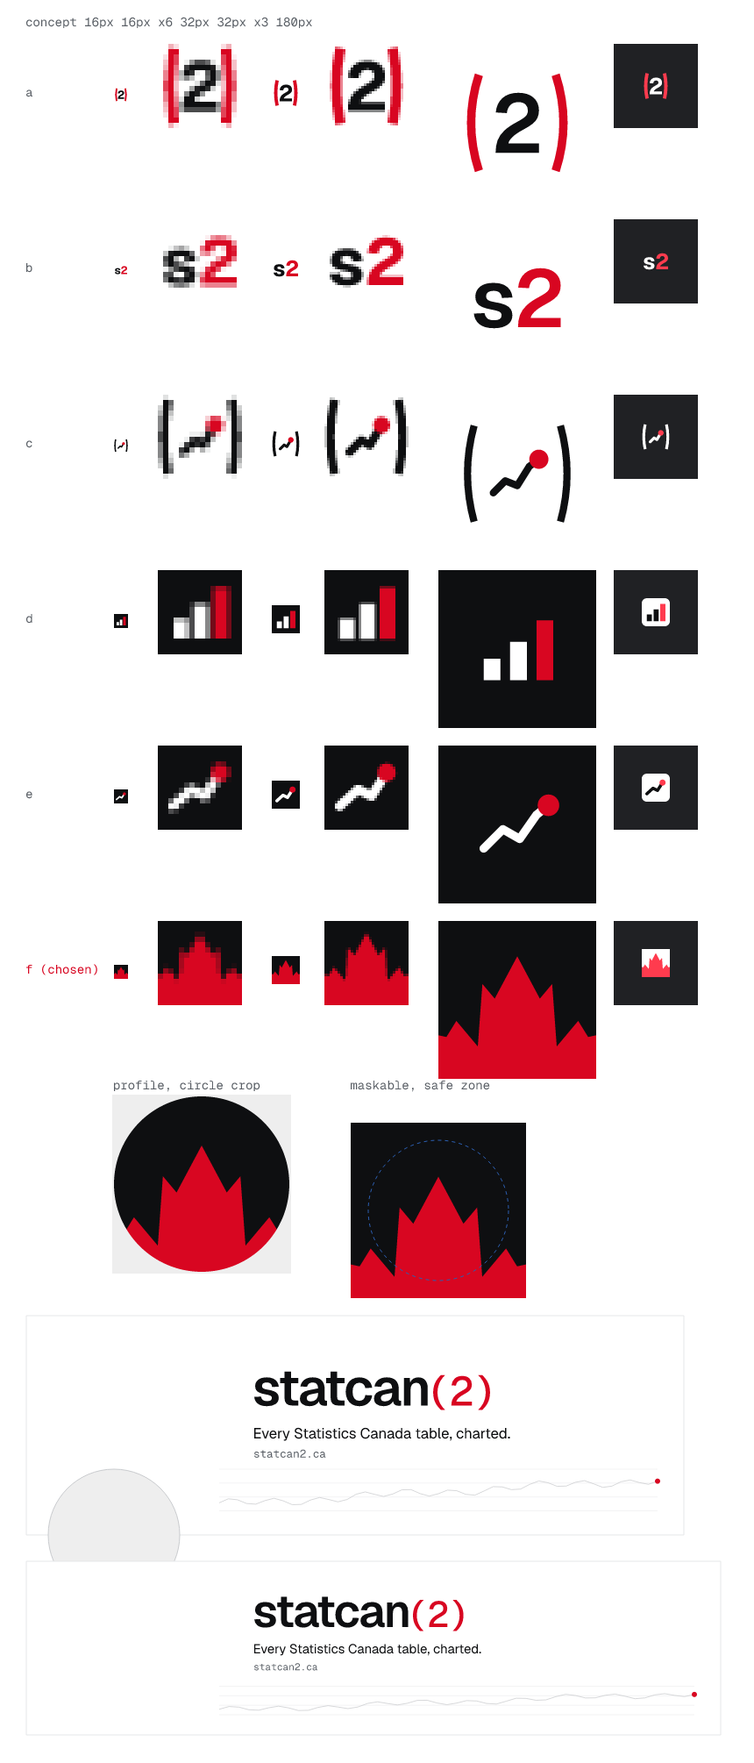
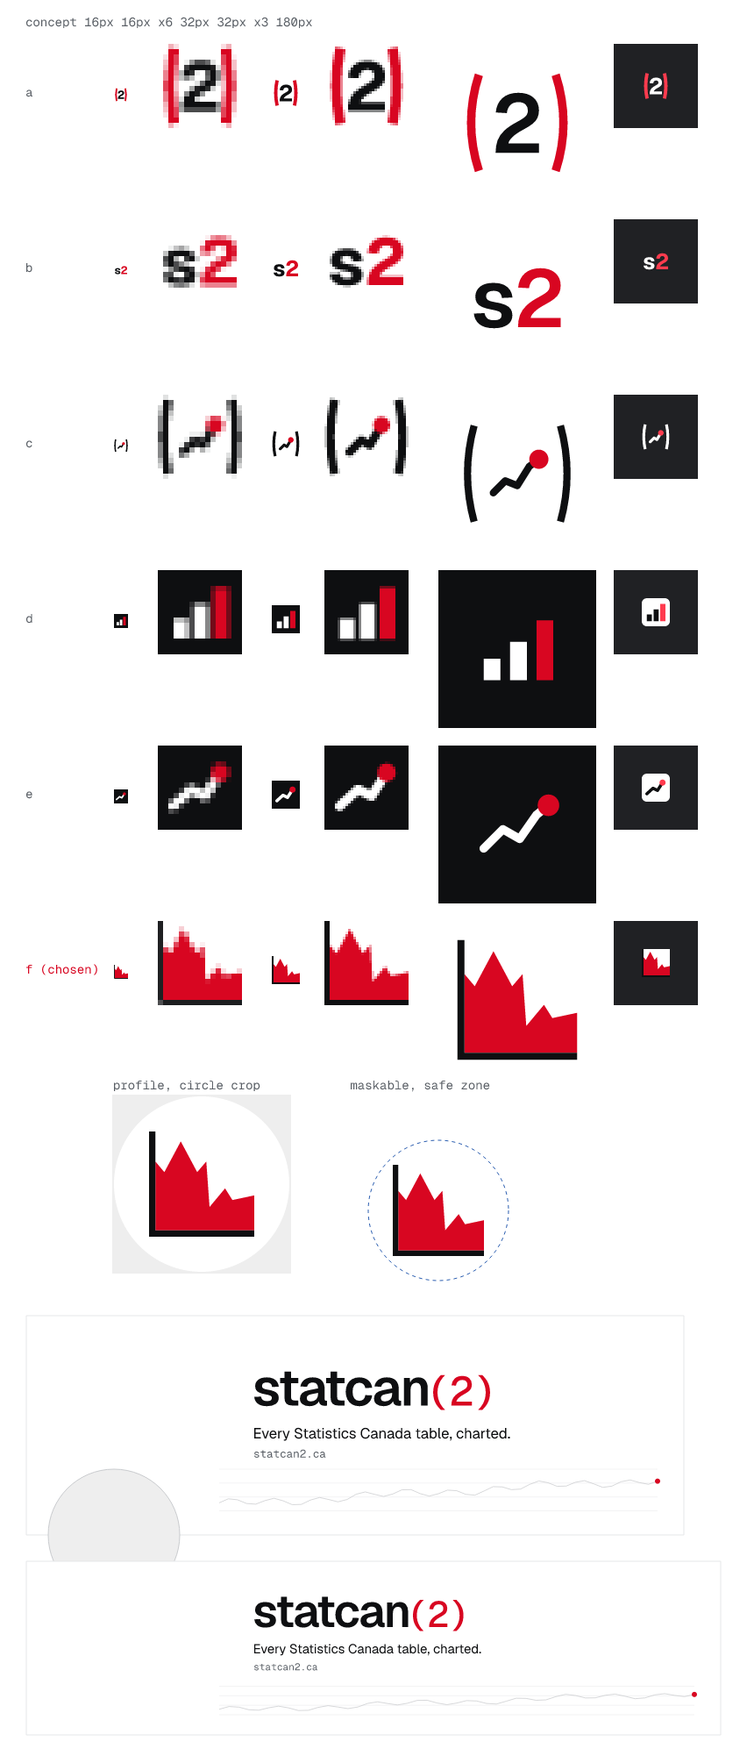
Leaf chart mark with axes; domain on the site card
The mark is now a red maple leaf drawn as an area chart inside a thin
black axis, red on white, with the centre lobe against the y axis. The
favicon gets a 6/100 corner radius. The mark's x axis sits on the
wordmark's baseline in the top bar and the site card, and the site card
shows statcan2.ca at bottom right.

diff --git a/api/src/pages.ts b/api/src/pages.ts
@@ -17,8 +17,9 @@ const HIGHCHARTS = { src: "https://cdn.jsdelivr.net/npm/highcharts@13.1.1/highch
 const PUBLIC_DIR = fileURLToPath(new URL("../public", import.meta.url));
 
 
-/** The favicon's mark (brand/build.mjs concept f, the maple leaf as an area chart) on a 100×100 viewBox. */
-export const BRAND_MARK = `<rect width="100" height="100" fill="#0E0F11"/><path d="M0 100L0 64L5.1 65.1L11.4 54.9L25 71.1L27.9 31.5L35.7 40.8L50 14L64.3 40.8L72.1 31.5L75 71.1L88.6 54.9L94.9 65.1L100 64L100 100Z" fill="#D80621"/>`;
+/** The favicon's mark (brand/build.mjs concept f, the maple leaf as an area chart in an ink axis) on a 100×100 viewBox.
+ * Red on the page's white, so the white tile is not drawn. The x axis sits on the wordmark's baseline. */
+export const BRAND_MARK = `<path fill="#D80621" transform="translate(6 0) scale(0.94)" d="M0 100L0 30.3L9.1 41.1L25.7 10L42.3 41.1L51.5 30.3L54.8 76.3L70.5 57.5L77.9 69.3L100 64.6L100 100Z"/><path fill="none" stroke="#0E0F11" stroke-width="6" d="M3 0V97H100"/>`;
 
 function logo() {
   // The mark, then the wordmark.
@@ -41,7 +42,7 @@ const CSS = `
 @import url('https://fonts.googleapis.com/css2?family=Geist:wght@400;500;600;700&family=Geist+Mono:wght@400;500;600&display=swap');
 :root{color-scheme:light;--ink:#0e0f11;--muted:#5a5f66;--quiet:#9aa0a6;--line:#e6e7e9;--line-strong:#c9cbce;--hot:#d80621;--ok:#0a7f42;--bad:#b42318;--paper:#fff;--mono:'Geist Mono',ui-monospace,SFMono-Regular,Menlo,monospace;--sans:Geist,system-ui,-apple-system,BlinkMacSystemFont,'Segoe UI',sans-serif}
 *{box-sizing:border-box}body{margin:0;background:var(--paper);color:var(--ink);font:14px/1.45 var(--sans)}a{color:inherit;text-decoration:none}a:hover{text-decoration:underline}button,input,select{font:inherit;color:inherit}button{cursor:pointer}.mono,kbd,code,.num{font-family:var(--mono);font-variant-numeric:tabular-nums}.muted{color:var(--muted)}.quiet{color:var(--quiet)}
-.topbar{height:56px;display:flex;align-items:center;gap:24px;padding:0 24px 0 48px;border-bottom:1px solid transparent;background:#fff}.brand{display:flex;align-items:center;gap:8px;font-weight:600;font-size:19px;line-height:22px;letter-spacing:-.03em;white-space:nowrap}.brand-mark{width:20px;height:20px;flex:none}.brand-word{display:flex;align-items:baseline}.brand-version{color:var(--hot);font:500 15px/22px var(--mono);letter-spacing:-.05em;margin-left:2px}.topbar nav{margin-left:auto;display:flex;gap:28px}.topbar nav a{color:var(--muted);font-weight:500}.topbar nav a.active{color:var(--ink);font-weight:600}.search-count{color:var(--muted);font:12px/16px var(--mono);white-space:nowrap}.search-count:empty{display:none}.prompt{color:var(--hot);font:500 14px/18px var(--mono)}kbd{border:1px solid var(--line);font:11px/14px var(--mono);padding:2px 6px;color:var(--muted);background:#fff}
+.topbar{height:56px;display:flex;align-items:center;gap:24px;padding:0 24px 0 48px;border-bottom:1px solid transparent;background:#fff}.brand{display:flex;align-items:baseline;gap:8px;font-weight:600;font-size:19px;line-height:22px;letter-spacing:-.03em;white-space:nowrap}.brand-mark{width:20px;height:20px;flex:none}.brand-word{display:flex;align-items:baseline}.brand-version{color:var(--hot);font:500 15px/22px var(--mono);letter-spacing:-.05em;margin-left:2px}.topbar nav{margin-left:auto;display:flex;gap:28px}.topbar nav a{color:var(--muted);font-weight:500}.topbar nav a.active{color:var(--ink);font-weight:600}.search-count{color:var(--muted);font:12px/16px var(--mono);white-space:nowrap}.search-count:empty{display:none}.prompt{color:var(--hot);font:500 14px/18px var(--mono)}kbd{border:1px solid var(--line);font:11px/14px var(--mono);padding:2px 6px;color:var(--muted);background:#fff}
 main{width:100%;margin:0}.footbar{height:48px;display:flex;align-items:center;justify-content:space-between;padding:0 24px 0 48px;color:var(--quiet);font:12px/16px var(--mono)}
 .section-head{display:flex;align-items:baseline;gap:10px;padding-bottom:12px}.section-head h2{margin:0;font:600 17px/22px var(--sans)}.section-head .count,.count{font:12px/16px var(--mono);color:var(--quiet)}
 .note-row{display:flex;gap:16px;border-top:1px solid var(--line);padding:14px 0}.note-row .id{width:24px;color:var(--quiet);font:11px/16px var(--mono)}.note-row p{margin:0;font-size:13px;line-height:18px}

diff --git a/api/src/og.ts b/api/src/og.ts
@@ -349,17 +349,19 @@ export function chartSvg(view: ViewResult) {
   </svg>`;
 }
 
-// The site card: the top bar's mark and wordmark at 72 px, one line on what the site is, and a sample line
-// drawn like an export's series line. Sizes and spacing scale the top bar's CSS (19 px wordmark) by 72/19.
+// The site card: the top bar's mark and wordmark at 72 px, one line on what the site is, a sample line drawn like an
+// export's series line, and the domain at bottom right, level with the line's lowest point. Sizes and spacing scale
+// the top bar's CSS (19 px wordmark) by 72/19; the mark's x axis sits on the wordmark's baseline, as in the top bar.
 function siteSvg() {
   const size = 72, k = size / 19, baseline = 128;
-  const mark = 20 * k, markY = baseline - .31 * size - mark / 2;
+  const mark = 20 * k, markY = baseline - mark;
   return `<svg xmlns="http://www.w3.org/2000/svg" width="1200" height="630" viewBox="0 0 1200 630">
     <rect width="1200" height="630" fill="${paper}"/>
     <svg x="64" y="${markY.toFixed(1)}" width="${mark.toFixed(1)}" height="${mark.toFixed(1)}" viewBox="0 0 100 100">${BRAND_MARK}</svg>
     <text x="${(64 + mark + 8 * k).toFixed(1)}" y="${baseline}" font-family="${FONTS.sans}" font-size="${size}" font-weight="600" letter-spacing="${(-.03 * size).toFixed(2)}" fill="${ink}">statcan<tspan dx="${(2 * k).toFixed(1)}" font-family="${FONTS.mono}" font-size="${(15 * k).toFixed(1)}" font-weight="500" letter-spacing="${(-.05 * 15 * k).toFixed(2)}" fill="${palette[0]}">(2)</tspan></text>
     <text x="64" y="186" font-family="${FONTS.sans}" font-size="28" fill="${muted}">Explore and chart published Statistics Canada data.</text>
     <path d="${SITE_LINE}" fill="none" stroke="${palette[0]}" stroke-width="5" stroke-linejoin="round" stroke-linecap="round"/>
+    <text x="1136" y="566" text-anchor="end" font-family="${FONTS.mono}" font-size="22" fill="${muted}">${text(PUBLIC_HOST)}</text>
   </svg>`;
 }
 

diff --git a/DESIGN.md b/DESIGN.md
@@ -20,7 +20,7 @@ The site is a data terminal. It is a serious tool, not a marketing site.
    - **Reference pages** (`/api`, `/mcp`) keep the same 56 px top bar and 48 px footer as the app. Their article scrolls between those fixed rows, so the footer has the same top and height at 1440 × 900 on home, chart and reference pages.
    - Rows in lists use a minimum height, not a fixed height, so a long title wraps and the row grows.
 3. **Real data only.** Every number, title, member, note and ID comes from a build on the SSD (`v0` and its Normalized build `n4` for WDS tables, `census-full-1` for Census tables). Never invent a value.
-4. **Not official.** The site must not look like a Government of Canada service. No flag, Canada wordmark or government maple leaf symbol, no FIP bar, no government colours. The one leaf is the logo's: drawn as an area chart, cropped, on an ink tile. Every page with a footer says "Independent. Not affiliated with Statistics Canada." Statistics Canada is named only as the source of the data.
+4. **Not official.** The site must not look like a Government of Canada service. No flag, Canada wordmark or government maple leaf symbol, no FIP bar, no government colours. The one leaf is the logo's: part of a leaf drawn as an area chart, inside a black axis. Every page with a footer says "Independent. Not affiliated with Statistics Canada." Statistics Canada is named only as the source of the data.
 5. **Check before hand-off.** Screenshot changed screens at 1440 × 900 and 1900 × 1040. Look for clipped text, overlaps and lines that do not align.
 6. **Desktop first.** The app screen also works on a phone: the head band stacks, the plot is 60 % of the viewport height, and the chart builder becomes a bottom sheet. Document pages are desktop only.
 
@@ -111,12 +111,12 @@ The palette was chosen for colour-blind separation: under simulated protanopia, 
 | Component | Spec |
 |---|---|
 | **Top bar** | 56 px high, wordmark at left (padding 48), "API", "MCP" and a 32 px outline "Donate" button (https://buymeacoffee.com/statcan2, new tab) at right (padding 24), and no rule under it on any page. The search box is centred on the viewport, not on the space between the wordmark and the nav, at one width, min(640 px, viewport − 440 px), 40 px high, 8 px from the top: the same x, y and width on the app screen, the home page and every reference page (`api/public/topbar.css`). It has a red `›`, Geist 18, a 2 px ink underline and no outline; reference pages submit it to `/?q=`. On the app screen a 2 px progress line runs along the bar's bottom edge while a request is in flight. The chart's actions sit in the detail rail, not in the top bar. Phones (≤ 900 px): the box fills the space after the wordmark and the nav is hidden. |
-| **Logo** | The mark, 20 px, 8 px gap, then "statcan" in Geist 19/22 600, tight tracking, followed by "(2)" in red Geist Mono 15/22 500. The mark is the favicon: a red maple leaf drawn as an area chart on a square ink tile (`brand/README.md`). No government wordmark or flag leaf. |
+| **Logo** | The mark, 20 px, its x axis on the text baseline, 8 px gap, then "statcan" in Geist 19/22 600, tight tracking, followed by "(2)" in red Geist Mono 15/22 500. The mark is the favicon: a red maple leaf drawn as an area chart inside a black left and bottom axis, the centre lobe against the y axis (`brand/README.md`). No government wordmark or flag leaf. |
 | **Head band** | Above the plot, padding 20 24 12 48. Eyebrow in mono 12 secondary, one line, cut with an ellipsis: one source table shows its number (ink, linking to the official Statistics Canada table in a new tab) then `·` and the table title, with the full title in a tooltip (`14-10-0397-01 · Labour force characteristics by family structure, monthly…`); several tables show only their numbers, each linked, with titles in tooltips. Title Geist 32/38 600 (from `ViewResult.title`; it describes the chart, not the table). Sub line Geist 15 secondary, parts joined by ` · `, each part only once: `ViewResult.subtitle`; then the period from `ViewResult.period` (`Aug 2025 – Aug 2026`, one date when from = to) unless the subtitle already names it; then the axis units unless the subtitle names them; then the transform name only when the title does not already say it (a title with "% change" drops "% change over window"). Example: "Gasoline vs Food by province, % change over 1 year" / "Aug 2025 – Aug 2026 · %". Warnings (`ViewResult.warnings`) follow as mono 12 lines with a red `!`, never as a modal. "Also" offers the planner's alternatives as one mono 12 line of links, each cut to 36 characters; the row is absent when there are none. An alternative over the same tables with another chart type reads "as area chart" (etc.); other alternatives show the planner's label. The "Chart builder" button sits at the right, aligned to the bottom of the band; it is ink-filled while the sidebar is open. |
 | **Detail rail** | 48 px band under the plot with no top rule, padding 0 24 0 48. One row of small buttons: Table, Notes (count), Download, Cite (count when more than one source), API; then, after a 1 px `Rule` divider, the two actions: **Screenshot** (outline, camera icon) and **Share** (ink fill, white text, share icon). Each button is 28 px high, Geist 13 500, count in mono 11 tertiary; a detail button whose popover is open is ink-filled with white text. On phones the two actions show icons only (their names stay as accessible labels). There is no toast: each action's own label confirms it (on phones the word shows in the button while it flashes). The independence line sits at the right in mono 12 tertiary (hidden on phones). Buttons and actions are hidden in the blank states. |
 | **Screenshot** | Copies the export PNG to the clipboard (`navigator.clipboard.write` with a `ClipboardItem` holding the PNG's Promise, so Safari keeps the click's user activation); the label reads "Copied". If the clipboard cannot take an image (no `ClipboardItem`, not a secure context, or the write is refused), the same PNG downloads, named from the title (`renter-vs-owner-by-province.png`), and the label reads "Saved". The button's label reads "Copied", "Saved" or "Failed" for 1.5 s; every label shares one grid cell, so the button never changes size. The image is the **Export** below. |
 | **Share** | Copies the published link, `https://statcan2.ca/?q=…&s=…` (the exact chart, with an open popover's `#p-…` if any); its label reads "Copied" for 1.5 s in a box of fixed size. On touch devices with `navigator.share` it opens the system share sheet instead. Local testing can point the link elsewhere with `?origin=…` (not copied into the link). |
-| **Export** | One look for the Screenshot PNG and the OG image (`/og/chart.png`); the numbers live in `api/public/export-layout.js`, which both renderers import. Screenshot: a fixed 1600×900 canvas at 2× (3200×1800), the same at any window size and builder state; OG: 1200×630, every size scaled by width. 64 px side margins. Top to bottom: title Geist 600 56 px on one line, shrinking to 40 px, then cut with `…`; the page's sub line in Geist 24 secondary; method and gap lines in Geist Mono 20 secondary; a 1 px `Rule`. The plot: lines 3.5 px, markers only on isolated points, axis labels Geist Mono 18 secondary, light gridlines, ticks at least 150 px apart, each axis titled with its unit when there are two. A single series has no label or legend: the title and sub line name it, and the plot keeps the full width. Legend: a line chart with 2–4 drawn series gets direct labels at the line ends instead (Geist 20 in the series colour, name then the last value in 600, at most 300 px wide with long names cut with `…`, pushed apart so they never overlap); otherwise one legend row of 14 px swatches and Geist 19 names, wrapping to at most 2 rows; over 12 series, the top 12 by last value and "+N more"; unpublished series listed as on screen ("not published"). Then a 1 px `Rule` and the footer in Geist Mono 18 secondary: `Table 18-10-0004-01` at left (all tables, cut with `…` if too long), `statcan2.ca` at right (the period is already in the sub line). The image never names the request host. In the OG image, long value labels move the plot right so they stay inside the margin. The site card (`/og/site.png`, and any chart link that does not resolve): the top bar's mark and wordmark scaled to 72 px (mark 76 px, "statcan" Geist 600, "(2)" red Geist Mono 500), "Explore and chart published Statistics Canada data." in Geist 28 secondary, and one sample line in red, 5 px, across the lower half; no eyebrow, rules or footer. Geist and Geist Mono are loaded for every character drawn before the canvas is drawn, and the plot's SVG embeds them, so no glyph falls back or drops (checked: every "s" of "Seasonally adjusted"). |
+| **Export** | One look for the Screenshot PNG and the OG image (`/og/chart.png`); the numbers live in `api/public/export-layout.js`, which both renderers import. Screenshot: a fixed 1600×900 canvas at 2× (3200×1800), the same at any window size and builder state; OG: 1200×630, every size scaled by width. 64 px side margins. Top to bottom: title Geist 600 56 px on one line, shrinking to 40 px, then cut with `…`; the page's sub line in Geist 24 secondary; method and gap lines in Geist Mono 20 secondary; a 1 px `Rule`. The plot: lines 3.5 px, markers only on isolated points, axis labels Geist Mono 18 secondary, light gridlines, ticks at least 150 px apart, each axis titled with its unit when there are two. A single series has no label or legend: the title and sub line name it, and the plot keeps the full width. Legend: a line chart with 2–4 drawn series gets direct labels at the line ends instead (Geist 20 in the series colour, name then the last value in 600, at most 300 px wide with long names cut with `…`, pushed apart so they never overlap); otherwise one legend row of 14 px swatches and Geist 19 names, wrapping to at most 2 rows; over 12 series, the top 12 by last value and "+N more"; unpublished series listed as on screen ("not published"). Then a 1 px `Rule` and the footer in Geist Mono 18 secondary: `Table 18-10-0004-01` at left (all tables, cut with `…` if too long), `statcan2.ca` at right (the period is already in the sub line). The image never names the request host. In the OG image, long value labels move the plot right so they stay inside the margin. The site card (`/og/site.png`, and any chart link that does not resolve): the top bar's mark and wordmark scaled to 72 px (mark 76 px, "statcan" Geist 600, "(2)" red Geist Mono 500), "Explore and chart published Statistics Canada data." in Geist 28 secondary, one sample line in red, 5 px, across the lower half, and `statcan2.ca` in Geist Mono 22 secondary at bottom right, level with the line's lowest point; no eyebrow or rules. Geist and Geist Mono are loaded for every character drawn before the canvas is drawn, and the plot's SVG embeds them, so no glyph falls back or drops (checked: every "s" of "Seasonally adjusted"). |
 | **Detail popover** | Opened by its rail button; one at a time. It sits above its button, centred on it and clamped 12 px inside the window, with a 10 px caret pointing down at the button. White, 1 px `Border`, a very light shadow (0 2 10 ink at 6 %) only to lift it off the plot. No title inside: the ink-filled rail button says which one is open (the name stays for screen readers). A 24 px × sits in the top-right corner, in a 40 px lane on the right that content never enters (body padding), so the body's scrollbar sits at the popover's right edge, right of the ×. All content has one inset: 16 px top and bottom, 20 px left (16 px on phones); the Table has no top inset, because its sticky header carries it. The body is the only part that scrolls (it never scrolls the page). Width: Download and Cite 600 px, API 720 px, Notes 760 px; Table is as wide as its table plus the insets (no blank area to the right) up to 960 px, and a wider table scrolls inside. Never wider than the window minus 24 px. Height fits the content up to 70 % of the window, and never above the top bar. It closes on the same button, × , Esc, or a click outside; focus moves into it on open, Tab and Shift+Tab stay inside it, and focus returns to its button on close. `#p-table`, `#p-notes`, `#p-download`, `#p-cite`, `#p-api` open the matching popover on load, so old links keep working. A new chart keeps the open popover, re-filled and re-anchored; a blank state closes it. On phones (≤ 900 px) it is a bottom sheet: full width, directly above the rail, up to the top bar, 1 px ink rule on top, no caret, no shadow. Without JavaScript the five panels appear as plain sections below the screen, each with its title, and the rail buttons are links to them. |
 | **Chart builder** | Right sidebar, 380 px, 1 px rule on the left, full height under the top bar, scrolls on its own. Closed by default. Head "Chart builder" with a × close. Every control sits on one grid: the section's 20 px insets are the left and right edges, and every select, input and segmented control is 32 px high, 1 px `Border`, square, Geist 13 (Geist Mono 12 in segments, mono in date fields). Field labels sit above their control in mono 11 secondary. Sections, each with a mono 11 uppercase label: Chart (the six type icons as one full-width segmented control with equal cells; for bars, Horizontal and Sort in two equal columns), Time (Latest 1Y 2Y 5Y 10Y 20Y Max as one full-width segmented control; From and To in two equal columns under it, plus At in a third for x-category charts), Transform (a full-width select; "Index = 100 at" adds a base field under it, empty for the first published point, or a period `2015`, `2015-06`, `2015-Q2`, written as `index_base`), Series (fixed 24 px swatch and 48 px Hide columns, then the name, on one line), Tables (one block per layer: table number, title, Remove; then one collapsible row per dimension: name and a mono summary such as `series · 10 selected`; inside, the Use select at full width, quick sets as mono chips, a search box above 8 members, the member list, and groups), Add table (search, then one row per hit), and a collapsed "How this was chosen" list of planner steps. On phones it is a bottom sheet, 72 % of the viewport high, with a 1 px ink rule on top; the same grid holds at 320 px. |
 | **Member list** | At most 200 rows, never the whole dimension (a Census geography has 63,404 members). Without search text: the checked members first, as a flat list in the order they were picked (no indent, a rule under the last one), then the master checklist in tree order, indented 14 px per level. With search text: the matches across all members, in member order, each with its parent in mono 11 tertiary (`Saskatoon · Division No. 11`), because many places share a name. A mono 11 tertiary last row says how many more there are ("63,204 more members; search to find them", "3,668 more matches; type more to narrow"). Typing re-renders only that list, about 120 ms after the last key. |

diff --git a/brand/README.md b/brand/README.md
@@ -4,13 +4,13 @@ Every file here and in `api/public/brand/` is generated by `node brand/build.mjs
 
 ## Mark
 
-A maple leaf drawn as an area chart: a red leaf on a square ink tile. The leaf's top edge is the chart line, and the red fill runs to the bottom edge. The leaf is cropped at both sides like a chart cut at its axis, so it reads as data first and Canada second. The tile is square, like everything else on the site. The mark is about the data, not the `(2)`, so `(2)` stays a wordmark suffix that other projects can share.
+A maple leaf drawn as an area chart: red on white, inside a black axis on the left and bottom (6/100 wide). The window runs from the centre lobe's left tip to the right lobe's outer tip, so the heavy part of the leaf stands against the y axis and the red fills down to the x axis. Cropped like this, it reads as a chart, and the centre lobe and side lobe still say maple leaf. The mark is square, like everything else on the site. Only the favicon (`favicon.svg`, `favicon.ico`) rounds its corners, by 6/100 of its width. The mark is about the data, not the `(2)`, so `(2)` stays a wordmark suffix that other projects can share.
 
-One drawing (concept f in `build.mjs`) serves every size. `logo-mark.svg` (512 px) and `logo-mark-small.svg` (32 px; also `favicon.svg`, `favicon.ico` and the site top bar) differ only in their declared size. When an icon needs padding, only the top point moves down; the fill stays full-bleed at the sides and bottom.
+One drawing (concept f in `build.mjs`) serves every size. `logo-mark.svg` (512 px) and `logo-mark-small.svg` (32 px) differ only in their declared size. On the site's white pages (the top bar, the OG site card) the white tile is not drawn. Padded icons shrink the whole chart, axis included, into the middle.
 
-App icons and avatars (`apple-touch-icon.png`, `icon-*.png`, `profile-*.png`) fill the whole square with ink, because the platform crops the corners.
+App icons and avatars (`apple-touch-icon.png`, `icon-*.png`, `profile-*.png`) are square and white edge to edge, because the platform crops the corners.
 
-Wordmark (`logo-wordmark.svg`): `statcan` in Geist 600 ink, then `(2)` in Geist Mono 500 red, on one baseline. The site top bar shows the mark, 20 px, then this wordmark. The OG site card (`/og/site.png`) shows the same pair at 72 px.
+Wordmark (`logo-wordmark.svg`): `statcan` in Geist 600 ink, then `(2)` in Geist Mono 500 red, on one baseline. The site top bar shows the mark, 20 px, then this wordmark, with the mark's x axis on the wordmark's baseline. The OG site card (`/og/site.png`) shows the same pair at 72 px.
 
 Earlier concepts a–e (the `(2)`, `s2`, a line in parentheses, bars, a rising line with a red dot) stay in `concepts/` for comparison.
 
@@ -18,12 +18,11 @@ Earlier concepts a–e (the `(2)`, `s2`, a line in parentheses, bars, a rising l
 
 | Name | Hex | Use |
 | --- | --- | --- |
-| Ink | `#0E0F11` | the tile, `statcan` |
+| Ink | `#0E0F11` | the axis, `statcan` |
 | Accent | `#D80621` | the leaf, `(2)` |
-| Paper | `#FFFFFF` | background |
-| Dark-mode accent | `#FF3B4E` | `favicon.svg` only, under `prefers-color-scheme: dark` (the tile turns white) |
+| Paper | `#FFFFFF` | the tile, background |
 
-The values come from `COLORS` in `api/public/export-layout.js`. Red fills only the leaf; it is never a page or tile background.
+The values come from `COLORS` in `api/public/export-layout.js`. Red fills only the leaf; it is never a page or tile background. The mark has no dark variant: its white tile reads on dark tab bars too.
 
 ## Clear space and minimum size
 
@@ -35,7 +34,7 @@ The values come from `COLORS` in `api/public/export-layout.js`. Red fills only t
 
 | File | Use |
 | --- | --- |
-| `api/public/brand/favicon.svg` | `<link rel="icon" type="image/svg+xml">`, transparent, with a dark-mode variant |
+| `api/public/brand/favicon.svg` | `<link rel="icon" type="image/svg+xml">`, white tile with 6/100 rounded corners, the same in dark mode |
 | `api/public/brand/favicon.ico` | 16, 32, 48 px fallback |
 | `api/public/brand/apple-touch-icon.png` | iOS home screen, 180 px, white, 12 % padding |
 | `api/public/brand/icon-192.png`, `icon-512.png` | web manifest icons |
